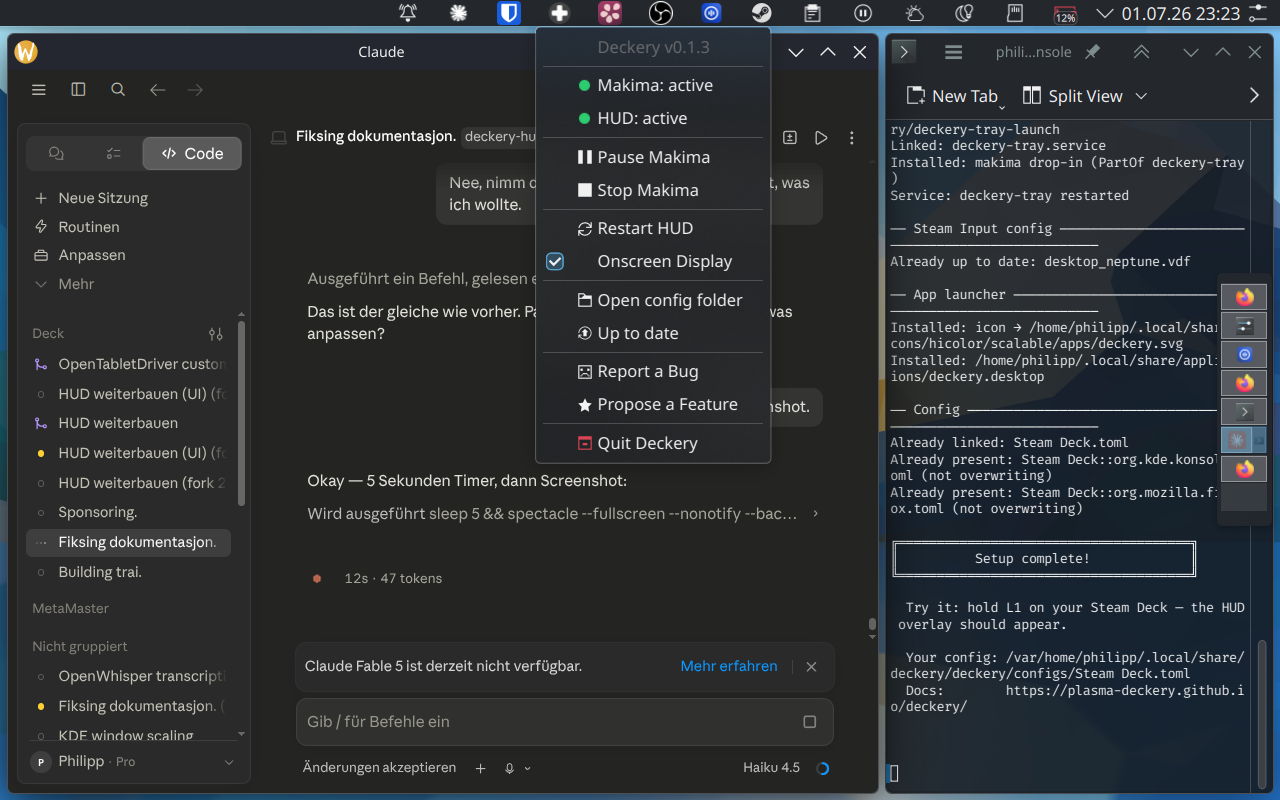
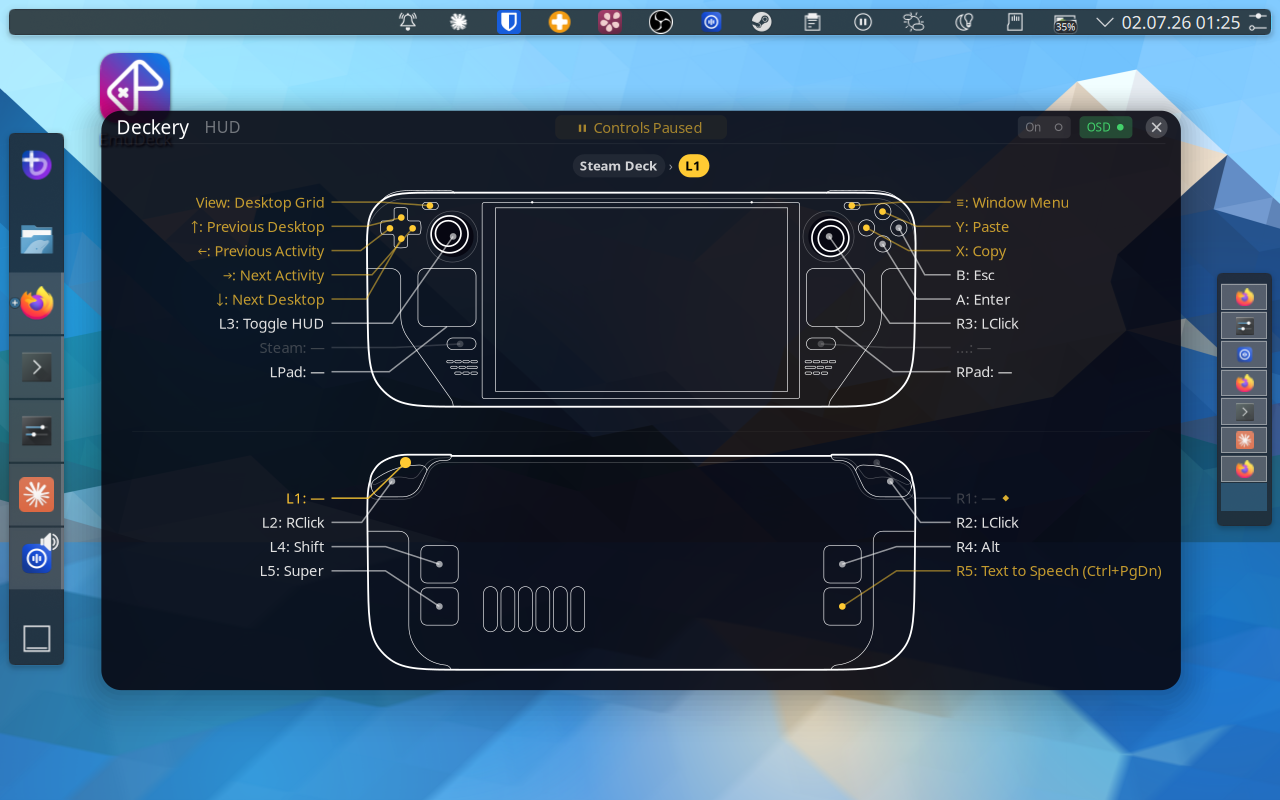
README: add Mission section, update Support, remove duplicate Progress section
- Add "The Mission" bullet list with community config library goal
- Update Support section: remove outdated "Current Focus", add Prioritization bullet
- Remove duplicate "Progress & Challenges" section (already linked from Mission)
- Update tray screenshot
- Remove steamdeck-dotfiles.md (replaced by subfolder with index + chezmoi pages)
- steamdeck-dotfiles: document OSK focus stealing prevention (KWin FocusStealingPreventionLevel=2)

diff --git a/README.md b/README.md
@@ -8,16 +8,26 @@ Deckery remaps controller buttons to keyboard keys, shortcuts, and actions — w
 
 [![Watch on YouTube](https://img.youtube.com/vi/KEW9rSAQW04/maxresdefault.jpg)](https://www.youtube.com/watch?v=KEW9rSAQW04)
 
+## The Mission
+
+- Get the most out of the Steam Deck as a desktop device, without a physical keyboard.
+- Become fully independent from the Steam process: all buttons, triggers, trackpads and inputs from the Deck should be usable without running Steam.
+- Get the most out of the trackpads — gestures, scrolling, and cursor movement that feel as good as Steam Input, without relying on it.
+- Build a community library of well-crafted shortcut configs for the most commonly used apps. If you have a config you're happy with, please contribute.
+
+→ [Progress & open challenges](https://plasma-deckery.github.io/deckery/progress-and-challenges/)
+
 ## ☕ Support Deckery
 
 Deckery is free and open-source. If you use this project or share the vision of a truly efficient Linux handheld, your support directly fuels its development.
 
-**Current Focus:** Funding the final push to 1.0, specifically working on touchpad support and gesture integration in undocumented Steam Deck hardware features.
+A significant amount of development hours goes into this project. Small contributions help to get the whole thing across the finish line.
 
 **How funds are used:**
 - 🛠 Dedicated development hours for feature implementation and testing
 - ☕ Coffee for late-night debugging sessions
 - 🏆 **Sponsor Recognition:** Monthly sponsors get their name/logo added to the `README.md`.
+- 🎯 **Prioritization:** If you sponsor or contribute, I'm happy to prioritize your wishes for the project.
 
 Every contribution brings the 1.0 release closer.
 
@@ -57,12 +67,6 @@ An opinionated KDE desktop setup tuned for the Steam Deck's screen size and inpu
 Beyond its own services, Deckery pulls in and patches a set of existing KDE and desktop tools to make them work well on the Steam Deck's screen size and controller input. Some are forked to apply targeted fixes; others are used as-is. Together they form an opinionated, curated desktop environment that goes beyond what any single tool provides.
 
 → [Full project overview](https://plasma-deckery.github.io/deckery/projects/)
-
----
-
-## Progress & Challenges
-
-Current status and open challenges: [plasma-deckery.github.io/deckery/progress-and-challenges/](https://plasma-deckery.github.io/deckery/progress-and-challenges/)
 
 ---
 

diff --git a/docs/projects/steamdeck-dotfiles/index.md b/docs/projects/steamdeck-dotfiles/index.md
@@ -39,6 +39,8 @@ A KWin script ([Kyanite](../kyanite.md)) ensures there is always exactly one fre
 
 The pointer focus policy is set so that moving the cursor to a window focuses it immediately, without clicking. On a small screen with a trackpad, this removes a significant source of friction.
 
+KWin's focus stealing prevention is set to Medium — this stops the Steam on-screen keyboard from grabbing focus away from the app you're typing into, so input lands where you intended.
+
 ## Voice input
 
 A [RNNoise](https://github.com/xiph/rnnoise) PipeWire filter-chain is configured for noise suppression during voice input. This is particularly useful outdoors. Works together with [OpenWhispr](../openwhispr.md) for hotkey-activated speech-to-text.
